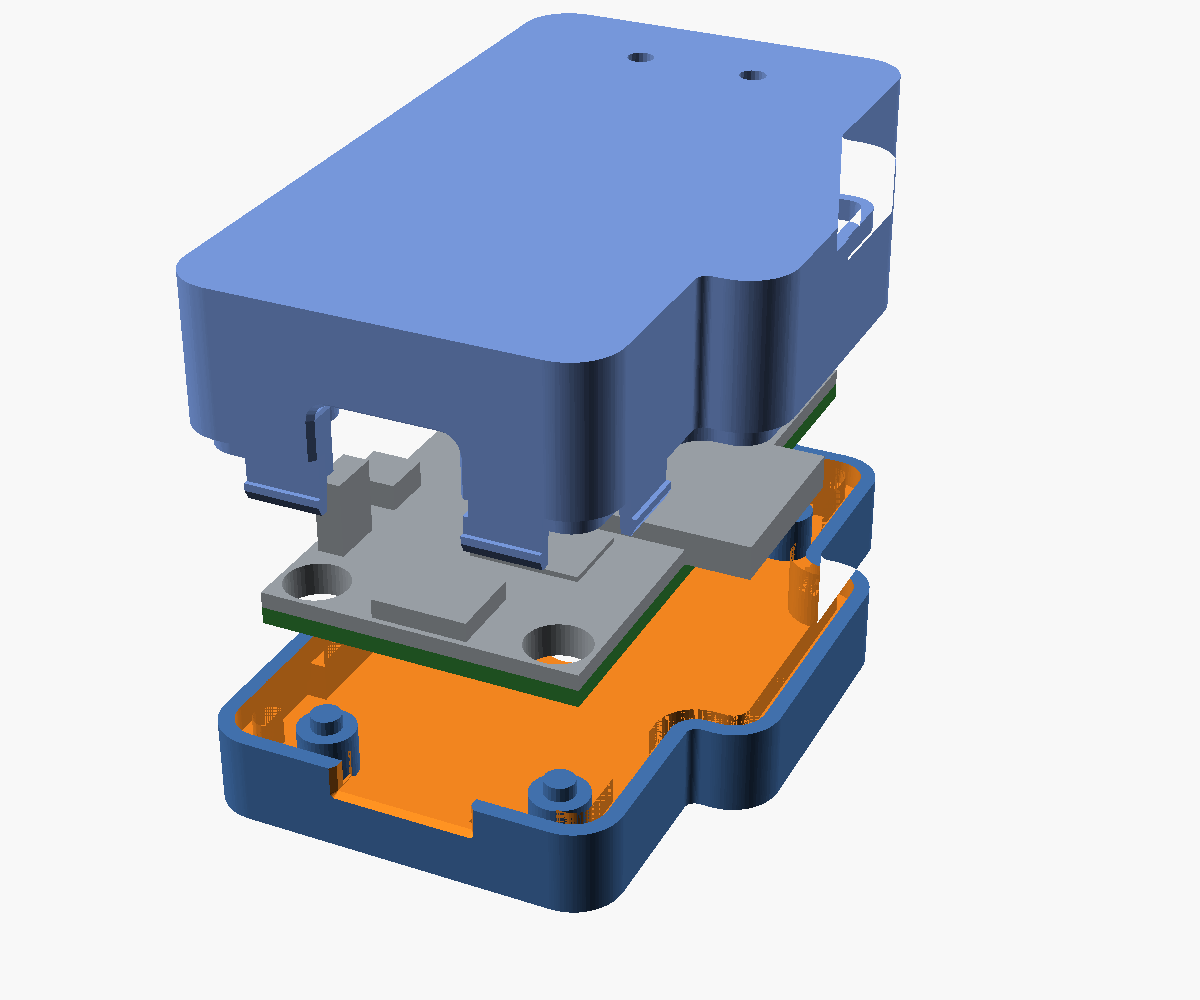
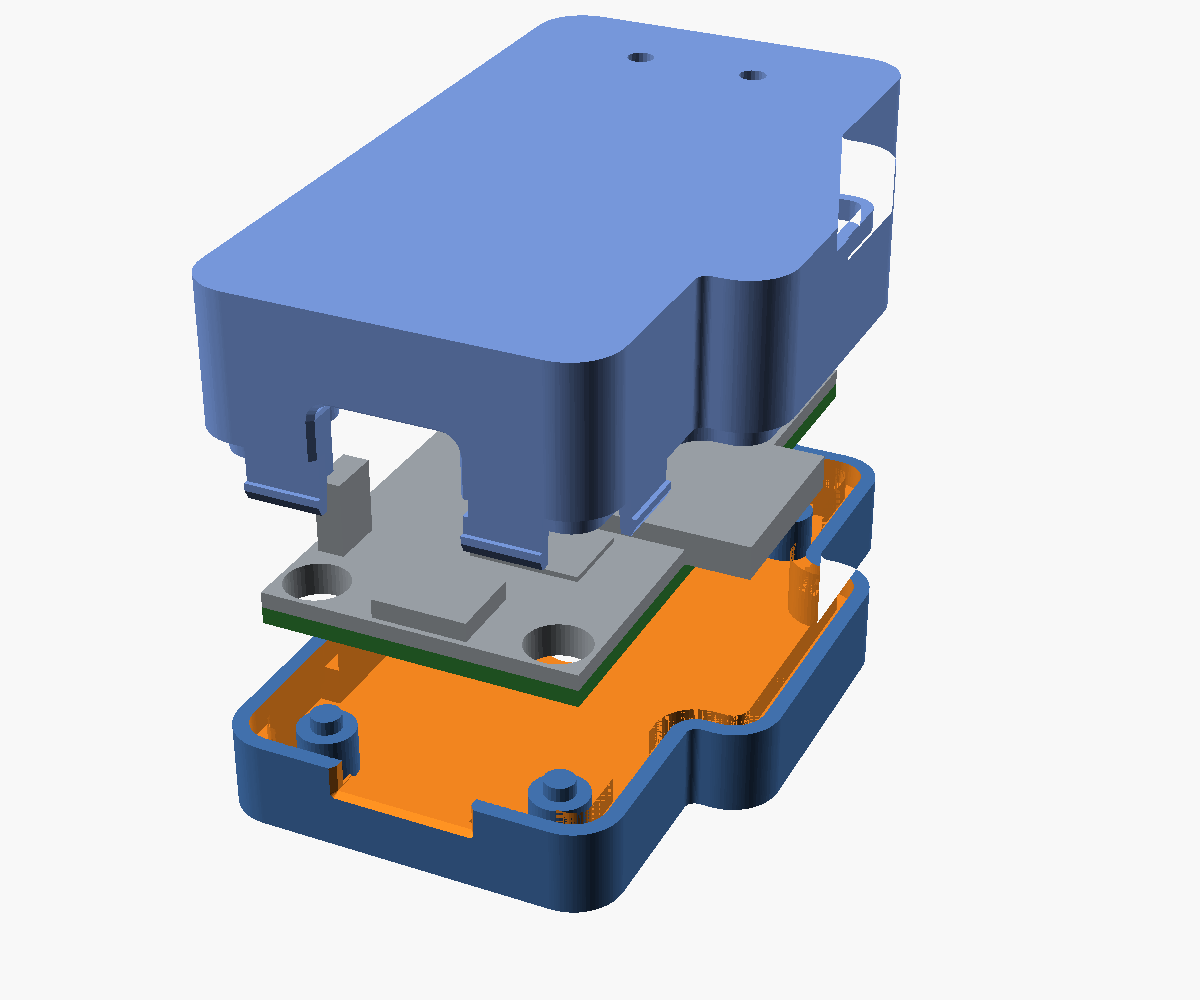
Make the IR window and the button optional, build STLs in Fabrication
U5 and SW2 are usually not populated - they are both in the --ignore list
the fabrication job hands to JLCPCB - so neither feature is cut now unless
asked for. ir_window also carries the 1.5 mm of extra side clearance the
MINICAST package needs where it overhangs the board edge, so the default
case is that much narrower; with both off the base is a plain solid floor
and the only unsupported features left in either half are the 0.45 mm
snap barb ledges.

build.sh --check now runs both configurations, so the optional features
are covered too.

The STL build moves into the Fabrication workflow as its own job rather
than a workflow of its own: it checks clearances, renders the STLs for
all three variants and uploads them as an artifact alongside the gerbers
and the docs.

Claude-Session: https://claude.ai/code/session_01MJLHruQEhQyLKftw6PUx2Q

diff --git a/enclosure/README.md b/enclosure/README.md
@@ -9,6 +9,8 @@ Everything is generated from one OpenSCAD file,
 
 ![exploded view](img/exploded.png)
 
+*Exploded view of the `usb` case, drawn with the optional button fitted.*
+
 ## Variants
 
 | | `usb` | `hardwired` | `outdoor` |
@@ -17,12 +19,26 @@ Everything is generated from one OpenSCAD file,
 | Power in | USB-C plug into J1 | cable soldered to the J4 pads | cable soldered to the J4 pads |
 | Cable entries | LED strip only | LED strip + power | LED strip + power, sealed |
 | Held together by | 8 snap fingers | 8 snap fingers | 8 snap fingers + 4 M3 screws |
-| Sealing | none | none | 2 mm silicone cord gasket, sealed button, blind IR/LED windows |
-| Button | printed plunger | printed plunger | moulded-in flexing membrane |
+| Sealing | none | none | 2 mm silicone cord gasket, blind LED windows, blind IR window and membrane button if those are enabled |
+| Button (optional) | printed plunger | printed plunger | moulded-in flexing membrane |
 | Mounting lugs | optional | optional | yes |
-| Outside size (mm) | 45.6 × 75.8 × 21.7 | 45.6 × 88.0 × 21.7 | 50.4 × 92.8 × 22.7 (57.7 across the lugs) |
+| Outside size (mm) | 44.1 × 75.8 × 21.7 | 44.1 × 88.0 × 21.7 | 48.9 × 92.8 × 22.7 (56.2 across the lugs) |
 
-Lengths include the strain relief snouts; widths include the antenna lobe.
+Lengths include the strain relief snouts; widths include the antenna lobe. Add
+1.5 mm to the width with `ir_window=true`.
+
+## Optional features
+
+SW2 and U5 are usually left off the board - they are both in the `--ignore` list
+the fabrication workflow hands to JLCPCB - so neither feature is cut by default
+and the case comes out with a solid floor and a plain left wall:
+
+| | default | turn on with | effect |
+|---|---|---|---|
+| IR window | off | `-D ir_window=true` | 6 × 6 mm window in the left wall, and 1.5 mm more side clearance, which the MINICAST package needs where it hangs over the board edge. **Set this if U5 is fitted**, window or not. |
+| Button | off | `-D button=true` | way through the floor to SW2: a captive printed plunger, or on `outdoor` a moulded-in membrane that keeps the case sealed. |
+
+The images above are the default build.
 
 ## What the board dictates
 
@@ -35,12 +51,12 @@ corner nearest the IR receiver):
 | Board outline | 30 × 60 × 1.6 mm | 0.7 mm side clearance |
 | M3 mounting holes | 3.5 mm in from each corner, 23 × 53 mm pitch | stand-offs below, bosses above, optional M3 screws |
 | **U1 ESP32-WROOM-32D** | the module is mounted so the antenna **overhangs the right hand board edge by 6.2 mm** (y 21.8 - 39.8) | the case grows a lobe on that side with ~1.2 mm of air around the antenna tip |
-| **U5 IR receiver** | overhangs the left edge by 1.2 mm and looks sideways out of it | 6 × 6 mm window in the left wall, on the parting line |
+| **U5 IR receiver** | overhangs the left edge by 1.2 mm and looks sideways out of it | 6 × 6 mm window in the left wall, on the parting line - *optional, off by default* |
 | J1 USB-C | on the front edge, opening 3.3 mm above the board | 13 × 7.8 mm opening, big enough for the moulded boot of a plug, with a lead-in flare |
 | J4 power pads | **underside**, right behind the USB connector | hardwired variants get an 8 mm wiring chamber at that end so the cable can curve down and back under the board |
 | P1/P2 LED strip pads, J3 terminal block | far end of the board | 4 mm wiring chamber, cable snout in line with the pads |
 | C6 (10 mm can), J3 (10.2 mm) | tallest parts | 11.6 mm of headroom under the lid |
-| SW2 | underside, middle of the board | button in the floor |
+| SW2 | underside, middle of the board | button in the floor - *optional, off by default* |
 | D2/D3 status LEDs | far end, top side | 2.6 mm windows in the lid roof |
 
 ## Why it needs no supports
@@ -53,9 +69,9 @@ corner nearest the IR receiver):
 * The lid prints roof-down; its bosses, lip and snap fingers all point up.
 * The strain relief snouts are 45° cones where they meet the wall, so they are
   self supporting even though they stick out into mid air.
-* The only down-facing features left are 0.45 mm ledges (the snap barbs and
-  their catch grooves) and a 1.9 mm ledge around the button dish. `build.sh`
-  keeps that honest - see [Checks](#checks).
+* The only down-facing features left are the 0.45 mm ledges of the snap barbs
+  and their catch grooves, plus, if you enable the button, a 1.9 mm ledge round
+  the finger dish. Nothing needs bridging over more than 2 mm.
 
 ## Printing
 
@@ -77,8 +93,8 @@ working strain than PLA does.
    and, on the hardwired variants, the power pair to J4 on the underside.
 2. Feed each cable in through its snout from the outside before dropping the
    board in.
-3. `usb` / `hardwired`: drop the **plunger** into the hole in the floor of the
-   base, flange side up.
+3. With `button=true` on `usb` / `hardwired`: drop the **plunger** into the hole
+   in the floor of the base, flange side up.
 4. Sit the board on the four stand-offs. Without screws, the spigots on the
    stand-offs locate it through the mounting holes.
 5. Route the cables over the tie rib and, if you want a positive anchor, pass a
@@ -118,8 +134,8 @@ thread diameter of a PG7 / M12 gland and fit the nut inside.
 
 | Variant | Parts |
 |---|---|
-| `usb` | 2 printed parts + 1 plunger. Optional: 1 small cable tie |
-| `hardwired` | 2 printed parts + 1 plunger. Optional: 2 cable ties |
+| `usb` | 2 printed parts. Optional: the plunger if you build with `button=true`, 1 small cable tie |
+| `hardwired` | 2 printed parts. Optional: the plunger if you build with `button=true`, 2 cable ties |
 | `outdoor` | 2 printed parts, ~250 mm of 2 mm silicone O-ring cord, 4 × M3 × 16 countersunk machine screws (self tapping into the printed bosses), 2 × grommet or 8 mm silicone tube, 4 × screws to mount it |
 
 Optional for any variant: two 3 mm acrylic rods, 11.5 mm long, as light pipes for
@@ -134,9 +150,11 @@ line: `openscad -D 'variant="outdoor"' -D 'part="lid"' -o lid.stl smartishminile
 |---|---|---|
 | `variant` | `"usb"` | `usb`, `hardwired`, `outdoor` |
 | `part` | `"base"` | `base`, `lid`, `plunger`, `assembly`, `exploded`, `section`, `fitcheck`, `clashcheck` |
+| `ir_window` | `false` | window for U5 - also adds the side clearance the package needs |
+| `button` | `false` | way through the floor to SW2 |
 | `bot_gap` / `top_gap` | 4.5 / 11.6 | clearance under and over the board |
 | `cable_d_led` / `cable_d_pwr` | 4.5 / 5.0 | cable jacket diameters |
-| `sw_h` | 3.0 | how far SW2 stands off the underside of the board - **measure yours**; it sets the plunger and membrane travel |
+| `sw_h` | 3.0 | how far SW2 stands off the underside of the board - **measure yours**; it sets the plunger and membrane travel (only used with `button=true`) |
 | `lobe` | `true` | set `false` only if U1 is not fitted; with it fitted the antenna does not fit inside a plain box |
 | `screws` | `false` | add the M3 screws to an indoor variant |
 | `mount_ears` | `false` | add the four mounting lugs to an indoor variant |
@@ -156,8 +174,20 @@ is outside.
 ./build.sh --all      # both
 ```
 
-Needs OpenSCAD (`apt install openscad`) and python3. CI builds the same STLs on
-every change under `enclosure/` and uploads them as a workflow artifact.
+That renders the default configuration of all three variants, plus the button
+plunger, which you only need if you re-render a base with `button=true`. For
+anything else, drive OpenSCAD directly:
+
+```sh
+openscad -o outdoor_lid.stl -D 'variant="outdoor"' -D 'part="lid"' \
+         -D ir_window=true -D button=true smartishminiled_case.scad
+```
+
+Needs OpenSCAD (`apt install openscad`) and python3.
+
+The `Enclosure` job in the Fabrication workflow runs the same checks and builds
+the same STLs on every change under `enclosure/`, and uploads them as the
+`SmartishMiniLED_enclosure` artifact.
 
 ## Checks
 
@@ -168,9 +198,10 @@ intersections that have to come out empty:
 * `part="fitcheck"` - the assembled case against the populated board;
 * `part="clashcheck"` - the lid against the base.
 
-`build.sh --check` renders both for all three variants and fails if either has
-any volume in it. Faces that merely touch are fine; anything with volume is a
-collision.
+`build.sh --check` renders both for all three variants, once with the default
+options and once with the IR window and the button switched on, and fails if any
+of them has volume in it. Faces that merely touch are fine; anything with volume
+is a collision.
 
 `part="assembly"`, `part="exploded"` and `part="section"` render the case with
 the board in place if you want to look at it rather than measure it.
